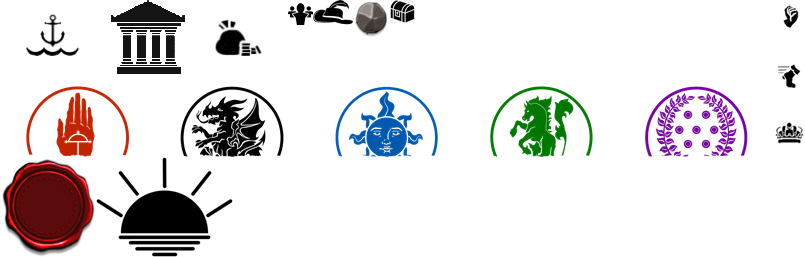
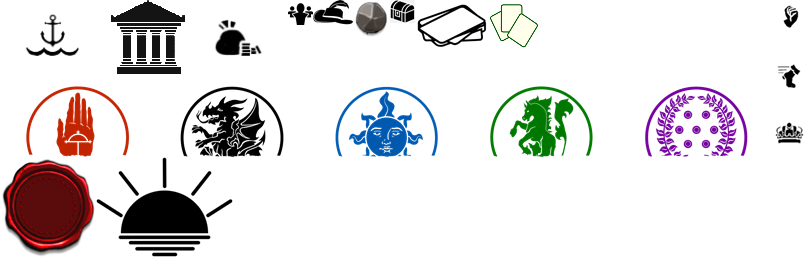
more cleanup.  Adding discard piles to resources

Changed region(s): [[0.4969, 0.0, 0.6832, 0.1868]]

diff --git a/seventhseacityoffivesails.css b/seventhseacityoffivesails.css
@@ -150,6 +150,12 @@ body {
     vertical-align: middle;
 }
 
+.city-endcap {
+    display: inline-block;
+    width:15px;
+    vertical-align: middle;
+}
+
 #dock-endcap {
     background-image: url('img/boardResources.png');
     background-position: -15px 0px;
@@ -172,12 +178,6 @@ body {
     background-size: calc(var(--png-board-resource-width) * .75) calc(var(--png-board-resource-height) * .75);
     height: 51px;
     width: 51px;
-}
-
-.city-endcap {
-    display: inline-block;
-    width:15px;
-    vertical-align: middle;
 }
 
 .home-castille { background-color: #E58712; }
@@ -214,11 +214,9 @@ body {
     height: 27px;
     width: 27px;
     margin-left: 10px;
-    margin-top: 5px;
-
     text-align: center;
     vertical-align: middle;
-    line-height: 25px;
+    line-height: 27px;
     font-family: "Pirata One", system-ui;
     font-size: 16pt;
     color:white;
@@ -232,7 +230,6 @@ body {
     height: 25px;
     width: 40px;
     margin-right: -2px;
-    margin-top: 5px;
     text-align:center;
     font-size: 16pt;
     font-family: "Pirata One", system-ui;
